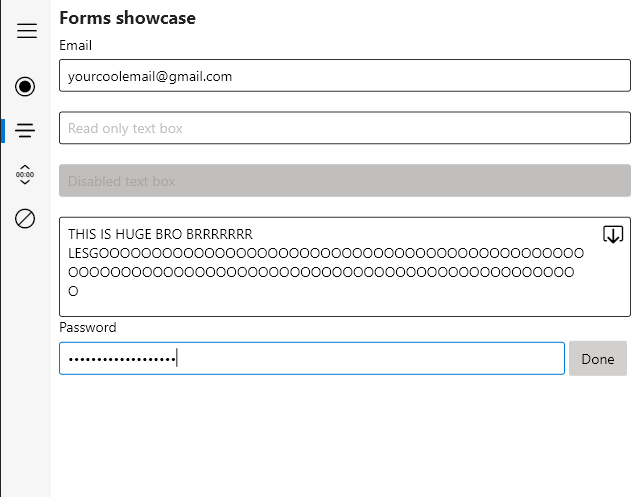
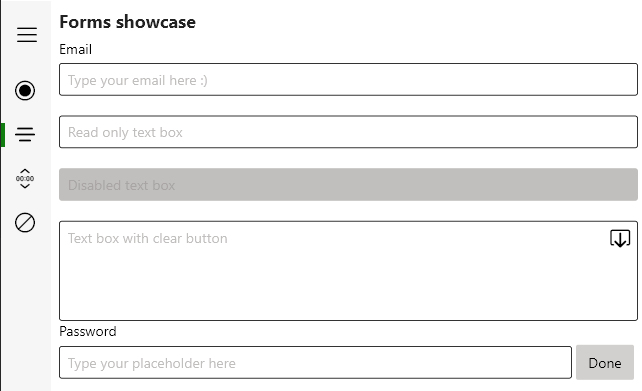
Version 1.0.1+1. Read the changelog

diff --git a/lib/src/controls/inputs/button.dart b/lib/src/controls/inputs/button.dart
@@ -158,7 +158,8 @@ class _ButtonState extends State<Button> {
           ? null
           : () async {
               widget.onPressed!();
-              if (mounted) setState(() => buttonScale = style?.scaleFactor ?? 0.95);
+              if (mounted)
+                setState(() => buttonScale = style?.scaleFactor ?? 0.95);
               await Future.delayed(Duration(milliseconds: 120));
               if (mounted) setState(() => buttonScale = 1);
             },

diff --git a/lib/src/utils.dart b/lib/src/utils.dart
@@ -59,6 +59,6 @@ void debugCheckHasFluentTheme(BuildContext context, [bool check = true]) {
     assert(
       context.theme != null,
       'A Theme widget is necessary to draw this layout. It is implemented by default in FluentApp. '
-          'To fix this, wrap a Theme widget upper in this layout or implement a FluentApp.',
+      'To fix this, wrap a Theme widget upper in this layout or implement a FluentApp.',
     );
 }

diff --git a/CHANGELOG.md b/CHANGELOG.md
@@ -1,6 +1,10 @@
 Date format: DD/MM/YYYY
 
-## [1.0.1] - [06/03/2021]
+## [1.0.1+1] - [09/03/2021]
+
+- **NEW** Screenshots
+
+## [1.0.1] - [07/03/2021]
 
 - **FIX** `NavigationPanel` navigation index
 - **FIX** `Slider`'s inactive color
